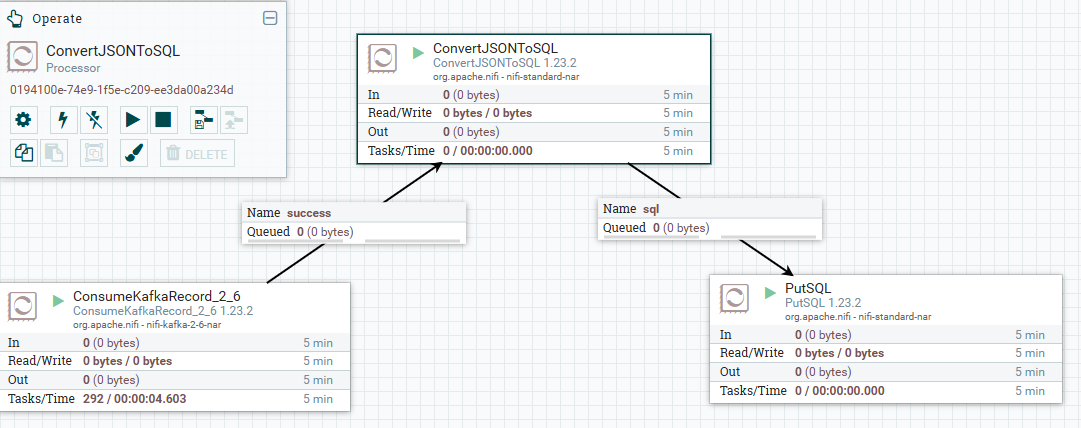
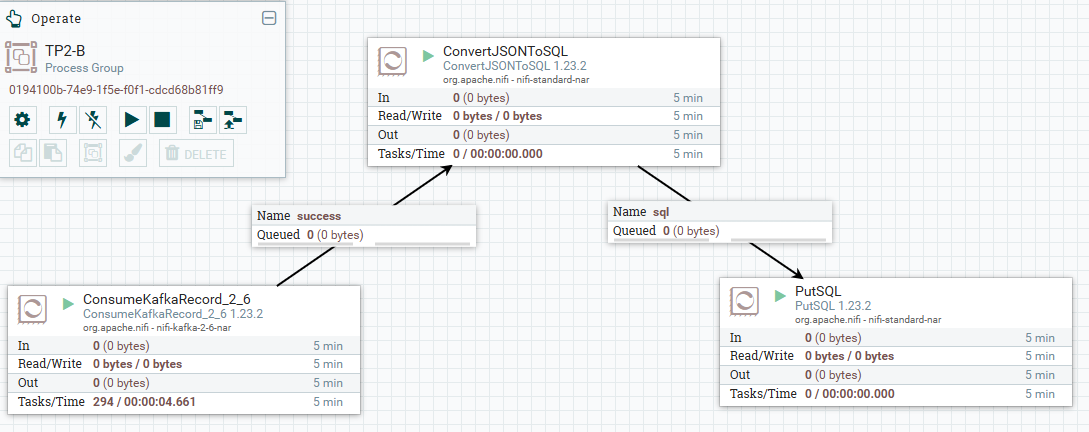
Modification d'une image du TP2.md et ajout d'une description des process groups

diff --git a/TP2.md b/TP2.md
@@ -244,3 +244,8 @@ Auteur : Matthieu Ramond - M1 MIAGE Classique
    ![alt text](images/TP2-4.png)
 
    ![alt text](images/TP2-5.png)
+
+
+    Les deux process groups :
+    ![alt text](images/TP2-6.png)
+
